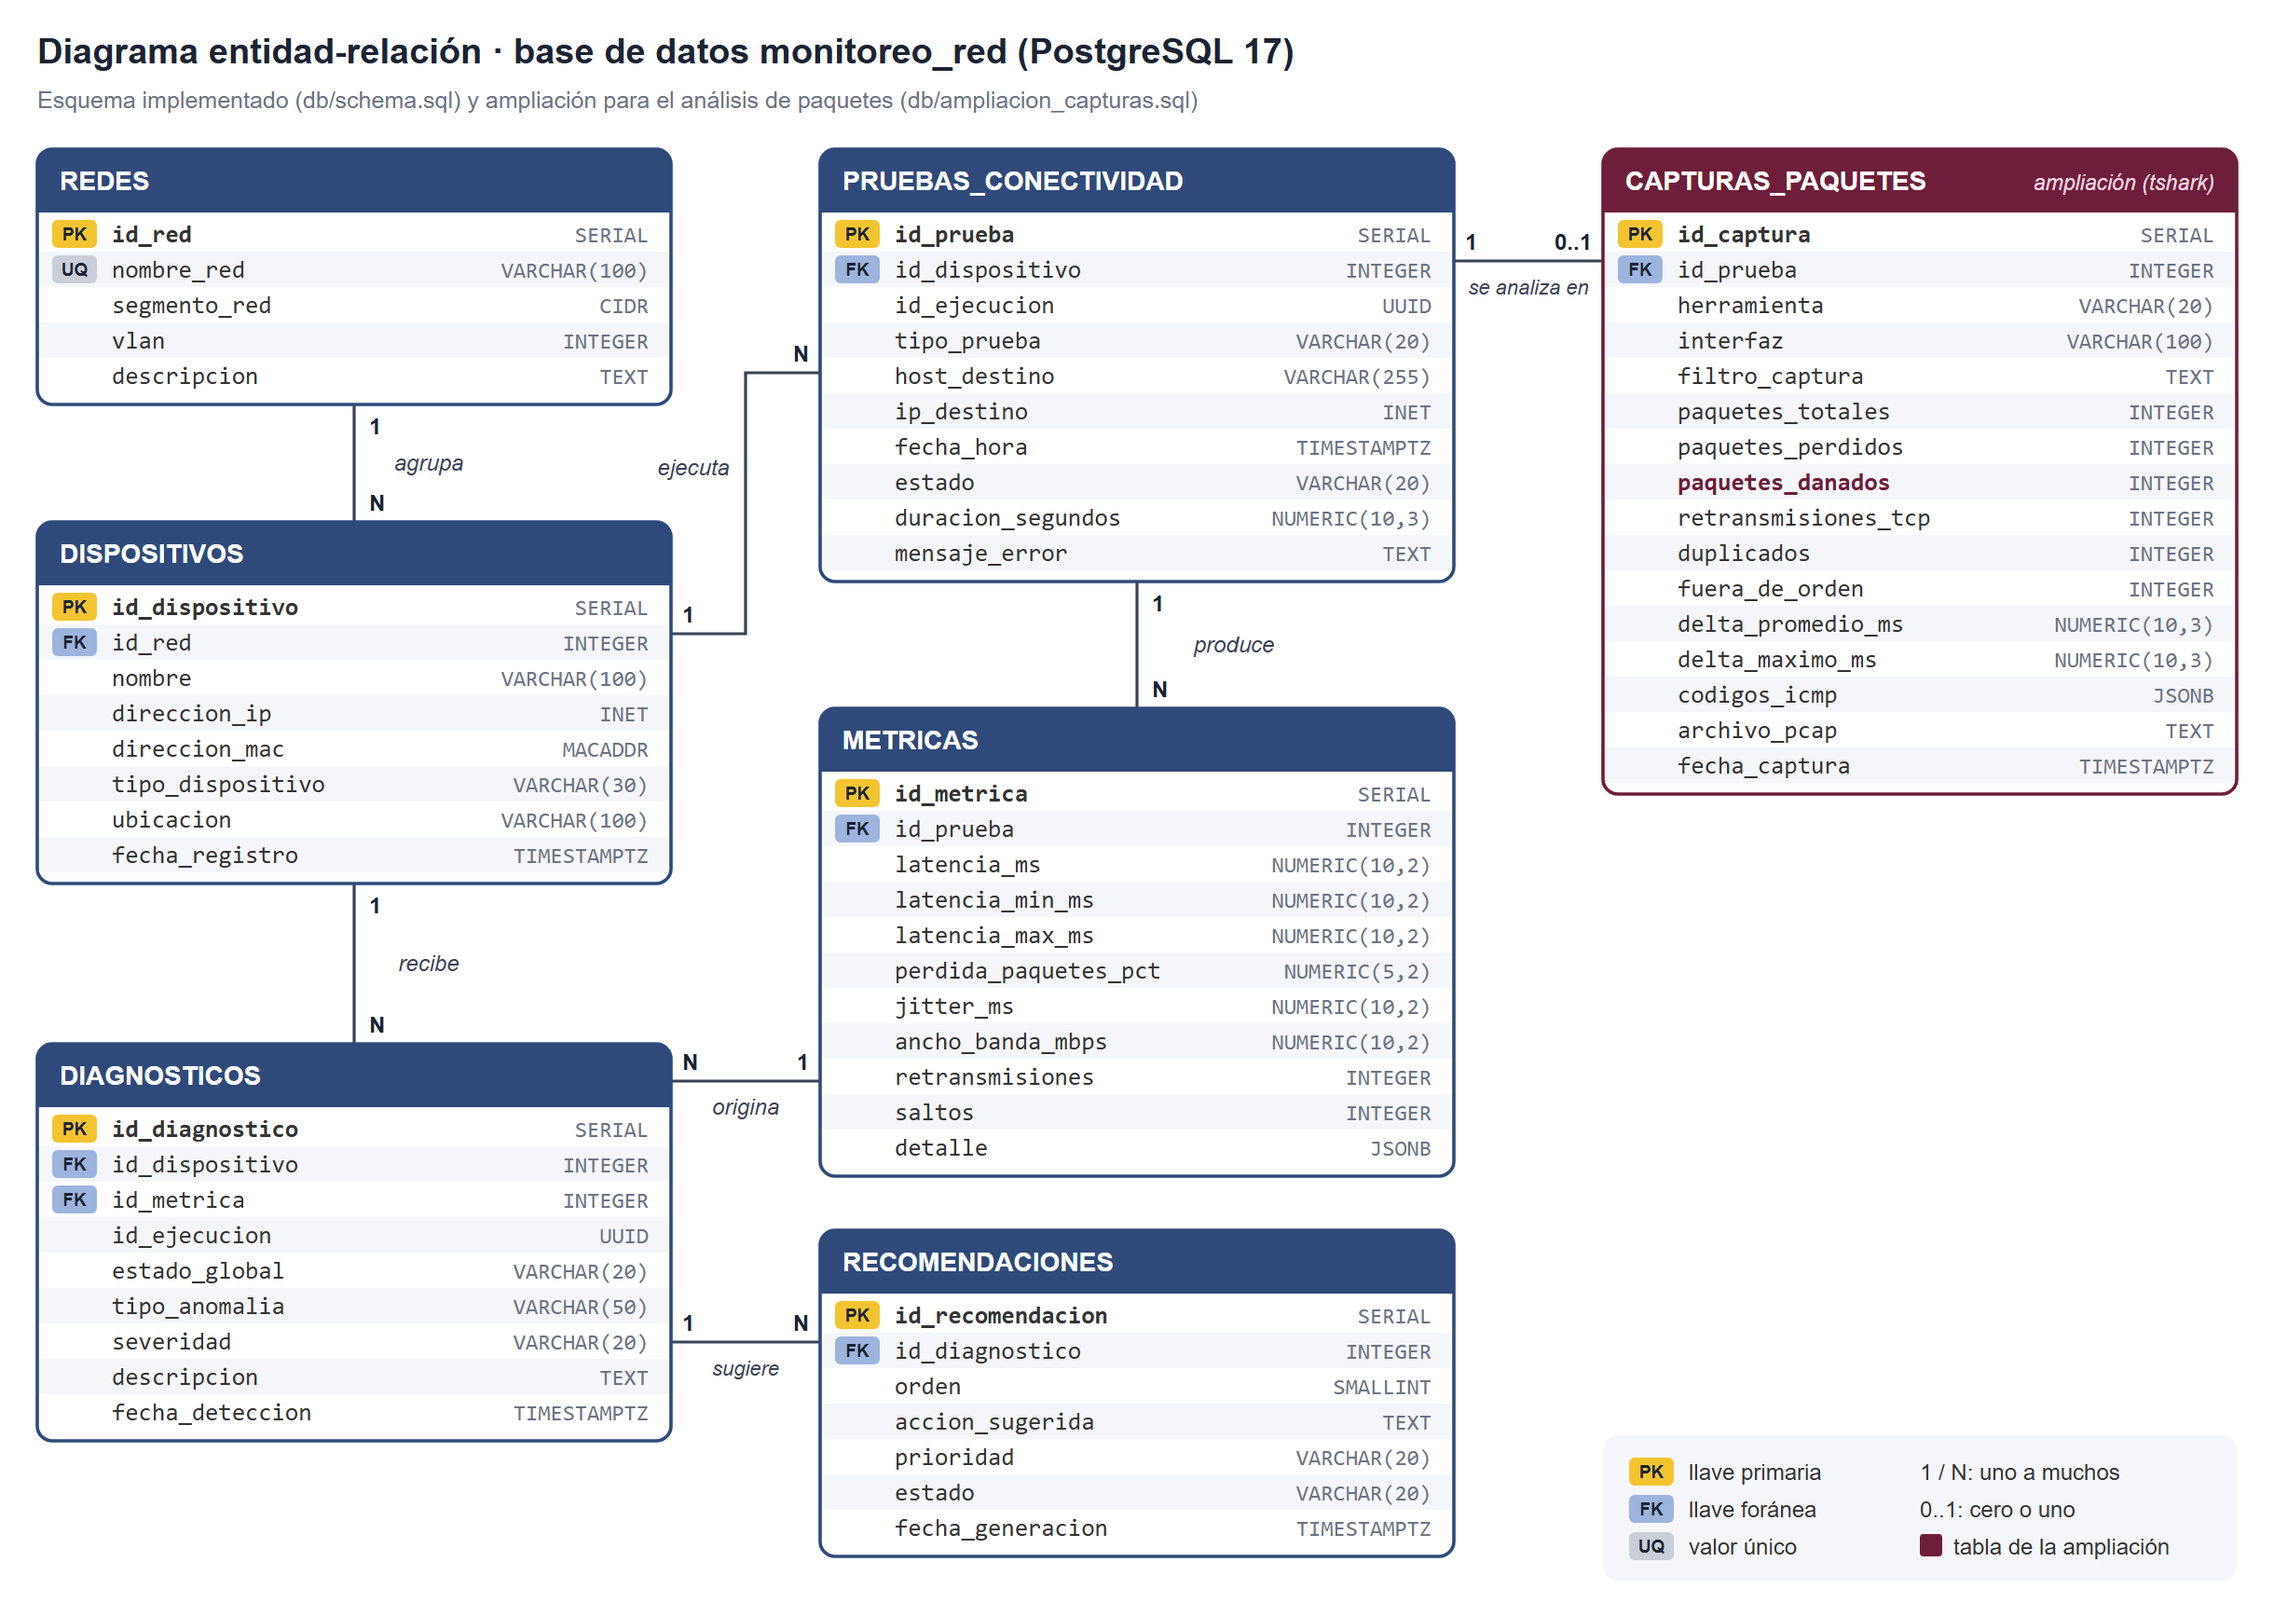
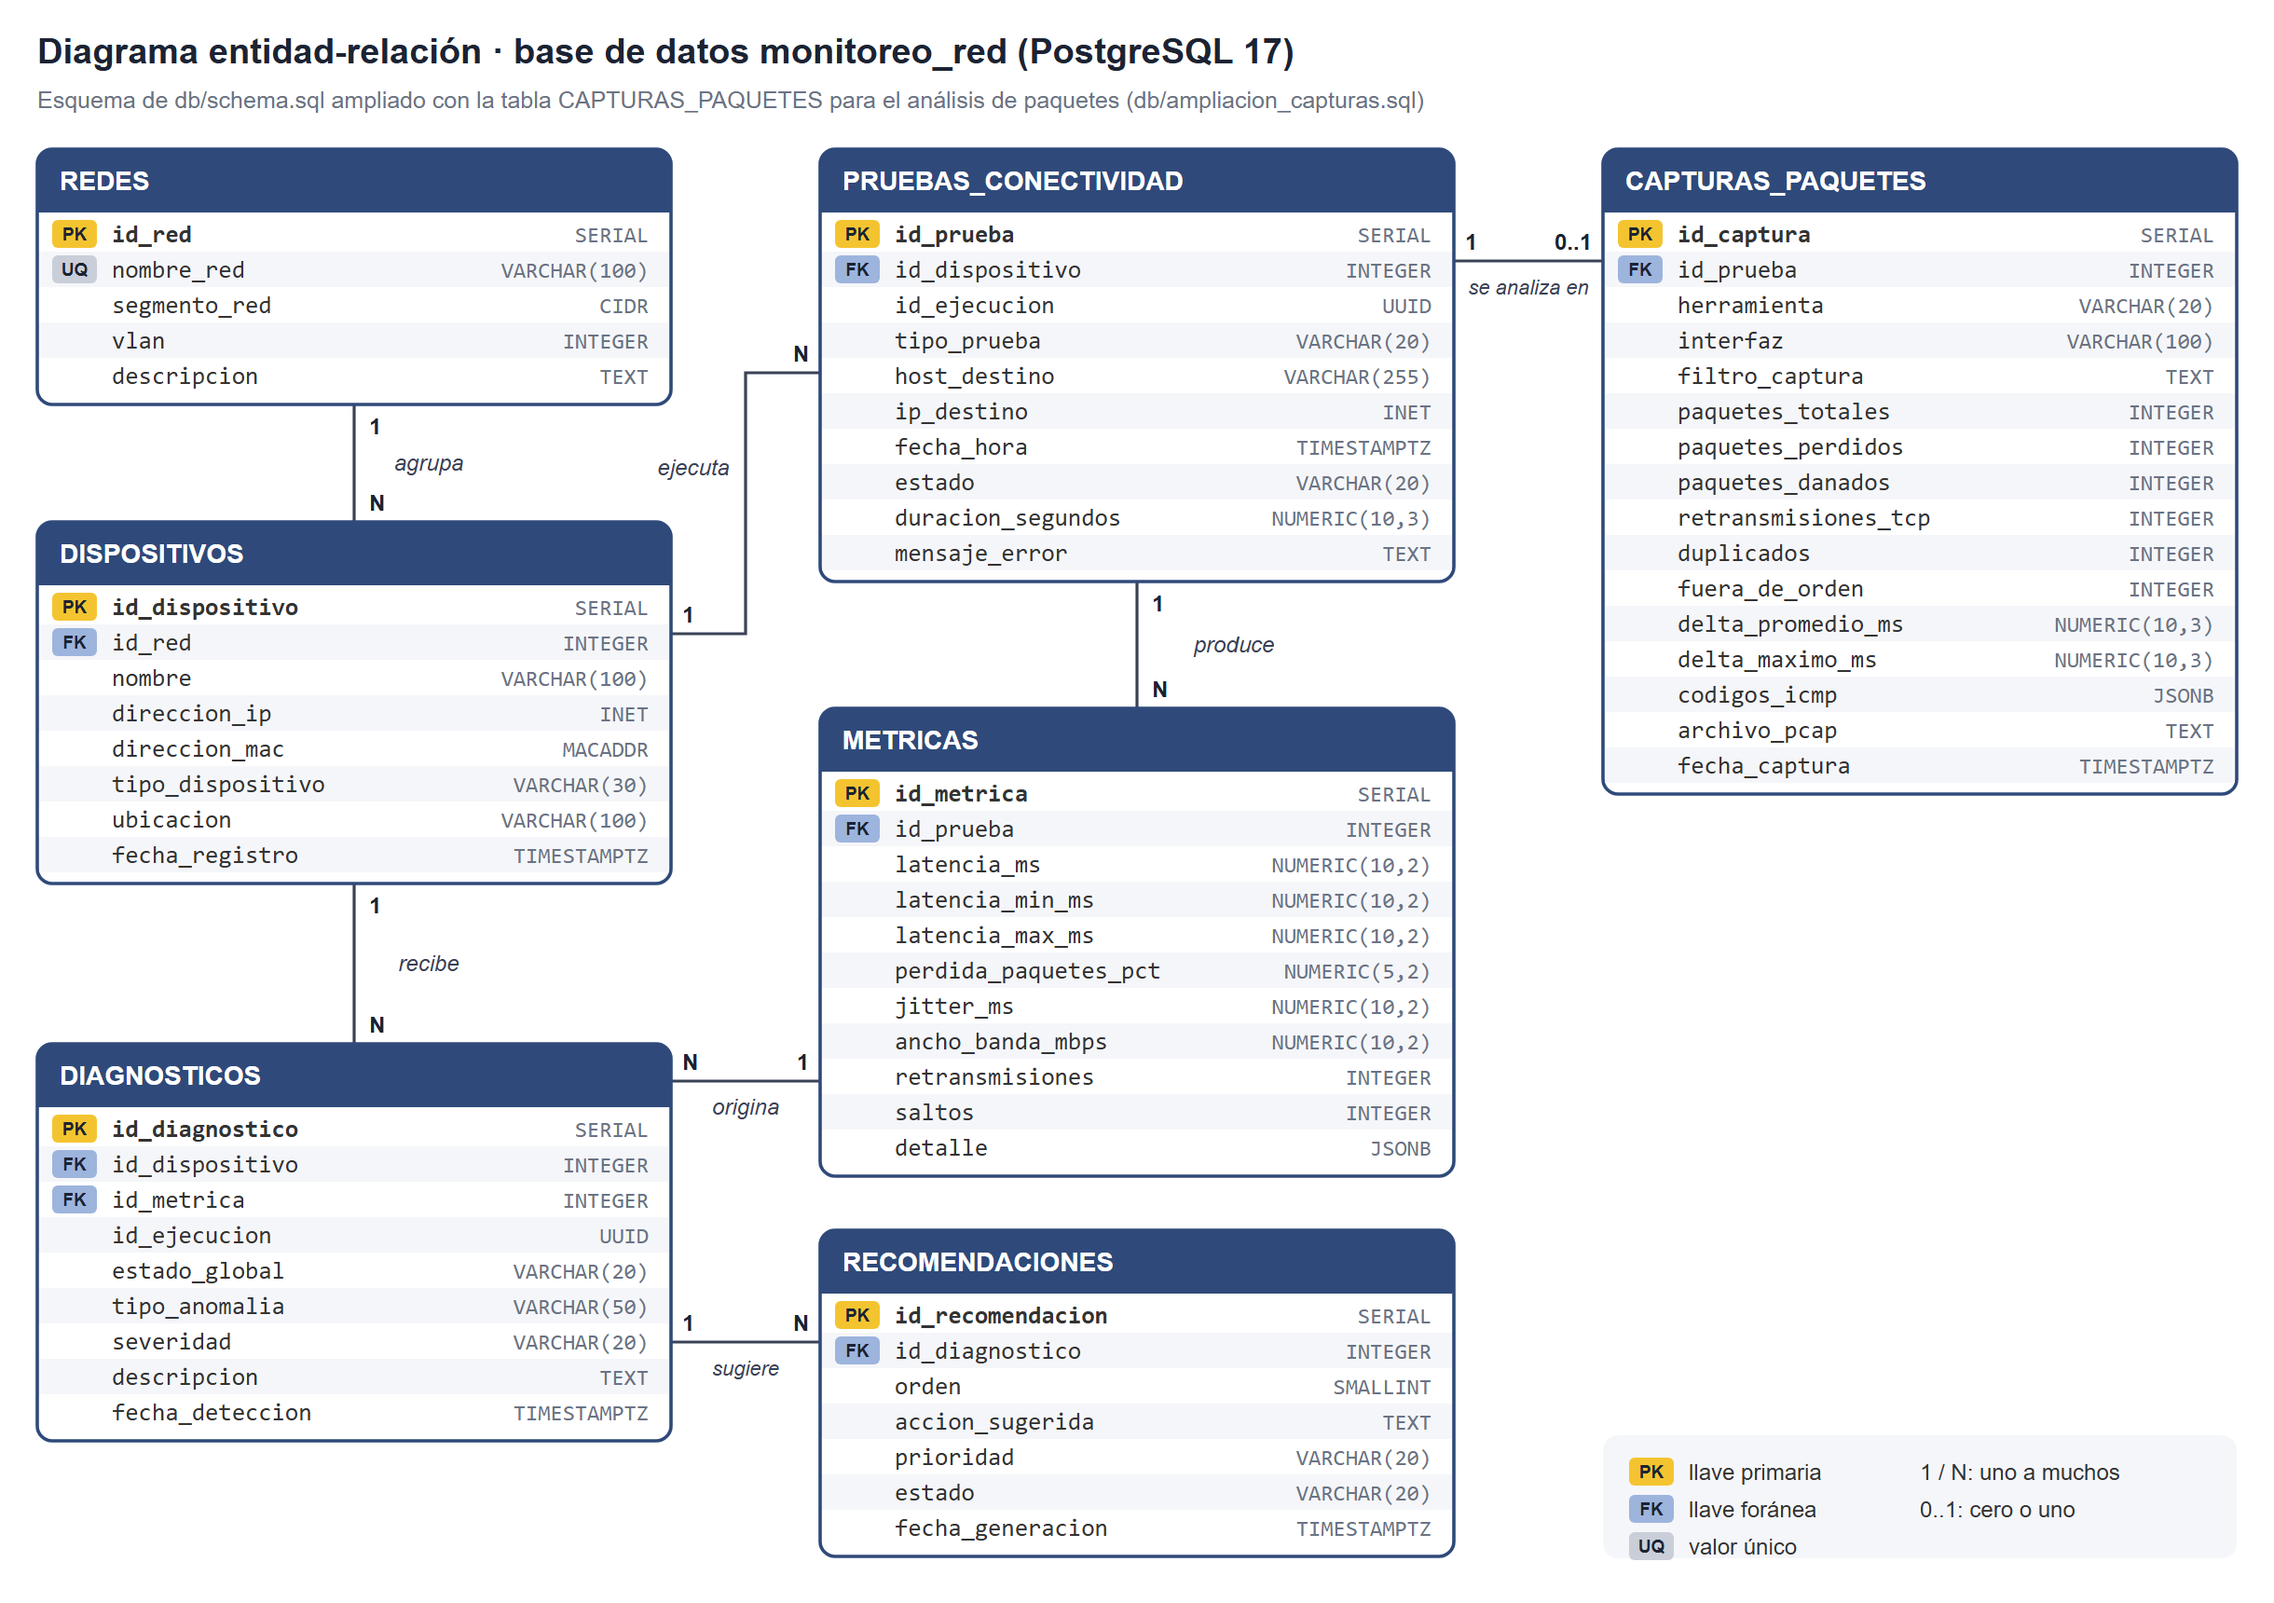
docs: evidencias del historial por periodos y diagrama ER con la ampliación integrada

diff --git a/docs/uml/generar_erd.py b/docs/uml/generar_erd.py
@@ -1,7 +1,7 @@
 """Genera el diagrama entidad-relación completo de monitoreo_red (erd_completo.svg).
 
-Incluye las seis tablas de db/schema.sql y la tabla de la ampliación (db/ampliacion_capturas.sql).
-Para obtener el PNG se abre el SVG con Microsoft Edge en modo headless (ver render_erd.ps1).
+Incluye las seis tablas de db/schema.sql y la tabla CAPTURAS_PAQUETES de db/ampliacion_capturas.sql.
+Para obtener el PNG se abre el SVG con Microsoft Edge en modo headless.
 
 Uso: python docs/uml/generar_erd.py
 """
@@ -11,7 +11,7 @@ from xml.sax.saxutils import escape
 W, H = 1220, 860
 FILA, CAB = 19, 34
 ANCHO = 340
-AZUL, GUINDA, GRIS = "#2F4A7A", "#6E1E3A", "#333333"
+AZUL, GRIS = "#2F4A7A", "#333333"
 
 # nombre: (x, y, columnas [(nombre, tipo, marca)], color de encabezado, nota)
 TABLAS = {
@@ -34,12 +34,11 @@ TABLAS = {
     "CAPTURAS_PAQUETES": (860, 80, [("id_captura", "SERIAL", "PK"), ("id_prueba", "INTEGER", "FK"),
                                     ("herramienta", "VARCHAR(20)", ""), ("interfaz", "VARCHAR(100)", ""),
                                     ("filtro_captura", "TEXT", ""), ("paquetes_totales", "INTEGER", ""),
-                                    ("paquetes_perdidos", "INTEGER", ""), ("paquetes_danados", "INTEGER", "*"),
+                                    ("paquetes_perdidos", "INTEGER", ""), ("paquetes_danados", "INTEGER", ""),
                                     ("retransmisiones_tcp", "INTEGER", ""), ("duplicados", "INTEGER", ""),
                                     ("fuera_de_orden", "INTEGER", ""), ("delta_promedio_ms", "NUMERIC(10,3)", ""),
                                     ("delta_maximo_ms", "NUMERIC(10,3)", ""), ("codigos_icmp", "JSONB", ""),
-                                    ("archivo_pcap", "TEXT", ""), ("fecha_captura", "TIMESTAMPTZ", "")], GUINDA,
-                          "ampliación (tshark)"),
+                                    ("archivo_pcap", "TEXT", ""), ("fecha_captura", "TIMESTAMPTZ", "")], AZUL, None),
     "DIAGNOSTICOS": (20, 560, [("id_diagnostico", "SERIAL", "PK"), ("id_dispositivo", "INTEGER", "FK"),
                                ("id_metrica", "INTEGER", "FK"), ("id_ejecucion", "UUID", ""),
                                ("estado_global", "VARCHAR(20)", ""), ("tipo_anomalia", "VARCHAR(50)", ""),
@@ -82,9 +81,7 @@ def tabla(nombre):
             fondo = {"PK": "#F4C430", "FK": "#9DB4DD", "UQ": "#C9CED8"}[marca]
             out.append(f'<rect x="{x+8}" y="{yy-12}" width="24" height="15" rx="3" fill="{fondo}"/>')
             t(x + 20, yy - 1, marca, 9.5, "bold", "#1C2333", anchor="middle")
-        peso = "bold" if marca == "PK" or marca == "*" else "normal"
-        color_col = GUINDA if marca == "*" else GRIS
-        t(x + 40, yy, col, 13, peso, color_col, mono=True)
+        t(x + 40, yy, col, 13, "bold" if marca == "PK" else "normal", GRIS, mono=True)
         t(x + ANCHO - 12, yy, tipo, 12, color="#6B7385", anchor="end", mono=True)
 
 
@@ -118,7 +115,7 @@ out.append(f'<svg xmlns="http://www.w3.org/2000/svg" width="{W}" height="{H}" vi
            f'font-family="Arial, Helvetica, sans-serif">')
 out.append(f'<rect width="{W}" height="{H}" fill="white"/>')
 t(20, 34, "Diagrama entidad-relación · base de datos monitoreo_red (PostgreSQL 17)", 19, "bold", "#1C2333")
-t(20, 58, "Esquema implementado (db/schema.sql) y ampliación para el análisis de paquetes (db/ampliacion_capturas.sql)",
+t(20, 58, "Esquema de db/schema.sql ampliado con la tabla CAPTURAS_PAQUETES para el análisis de paquetes (db/ampliacion_capturas.sql)",
   12.5, color="#6B7385")
 
 # Relaciones (1 = uno, N = muchos, 0..1 = cero o uno)
@@ -141,7 +138,7 @@ for n in TABLAS:
 
 # Leyenda
 ly = 790
-out.append(f'<rect x="860" y="{ly-20}" width="340" height="78" rx="8" fill="#F5F6F9"/>')
+out.append(f'<rect x="860" y="{ly-20}" width="340" height="66" rx="8" fill="#F5F6F9"/>')
 for i, (m, c, txt) in enumerate([("PK", "#F4C430", "llave primaria"), ("FK", "#9DB4DD", "llave foránea"),
                                  ("UQ", "#C9CED8", "valor único")]):
     out.append(f'<rect x="{874}" y="{ly-8+i*20}" width="24" height="15" rx="3" fill="{c}"/>')
@@ -149,8 +146,6 @@ for i, (m, c, txt) in enumerate([("PK", "#F4C430", "llave primaria"), ("FK", "#9
     t(906, ly + 4 + i * 20, txt, 12)
 t(1030, ly + 4, "1 / N: uno a muchos", 12)
 t(1030, ly + 24, "0..1: cero o uno", 12)
-out.append(f'<rect x="1030" y="{ly+33}" width="12" height="12" rx="2" fill="{GUINDA}"/>')
-t(1048, ly + 44, "tabla de la ampliación", 12)
 out.append("</svg>")
 
 destino = Path(__file__).resolve().parent / "erd_completo.svg"

diff --git a/docs/img/README.md b/docs/img/README.md
@@ -18,6 +18,9 @@ Para mantener la trazabilidad con los objetivos específicos del Trabajo Termina
 | `08_storage_tests.png` | Almacenamiento: pruebas unitarias y de integración | `python -m unittest tests.test_storage -v` |
 | `09_storage_historial.png` | Almacenamiento: diagnóstico guardado y consulta del historial | `python examples/guardar_diagnostico.py escom.ipn.mx` |
 | `10_pgadmin_registros.png` | Almacenamiento: registros vistos en pgAdmin 4 | Consulta en pgAdmin (ver db/README.md) |
+| `11_historial_semanal.png` | Ampliación: historial agrupado por semana | `python examples/historial_periodos.py` |
+| `12_historial_mensual.png` | Ampliación: historial agrupado por mes | `python examples/historial_periodos.py --periodo mes` |
+| `13_pgadmin_capturas_paquetes.png` | Ampliación: tabla capturas_paquetes creada (7 tablas) | `powershell -ExecutionPolicy Bypass -File db/crear_base.ps1` y pgAdmin |
 
 ## Pautas de Captura para el Reporte Técnico (ESCOM - IPN)
 1. **Resolución y Legibilidad:** Ajuste la fuente de su terminal a un tamaño visible (14pt - 16pt) con fondo oscuro contrastado (PowerShell o Windows Terminal).
